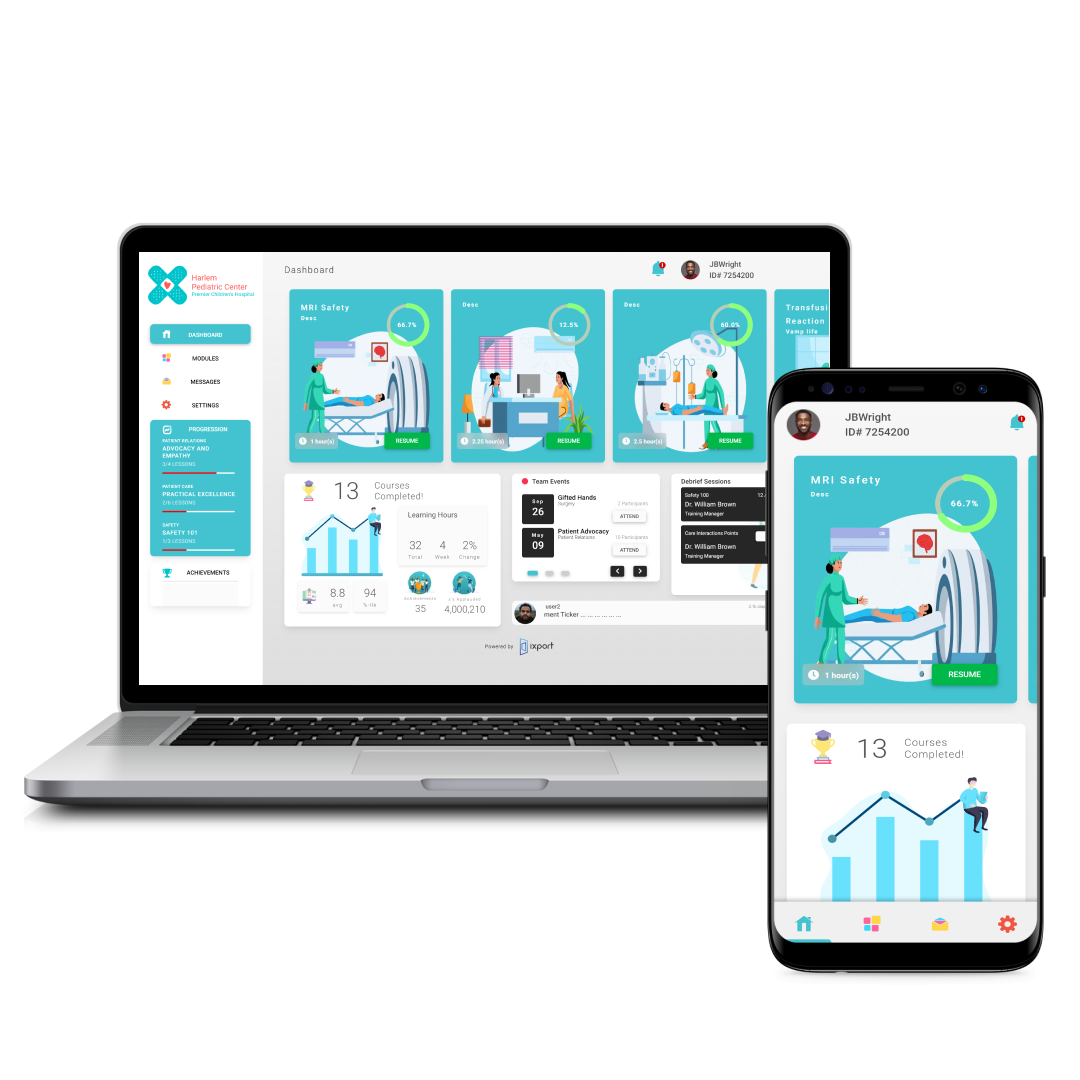
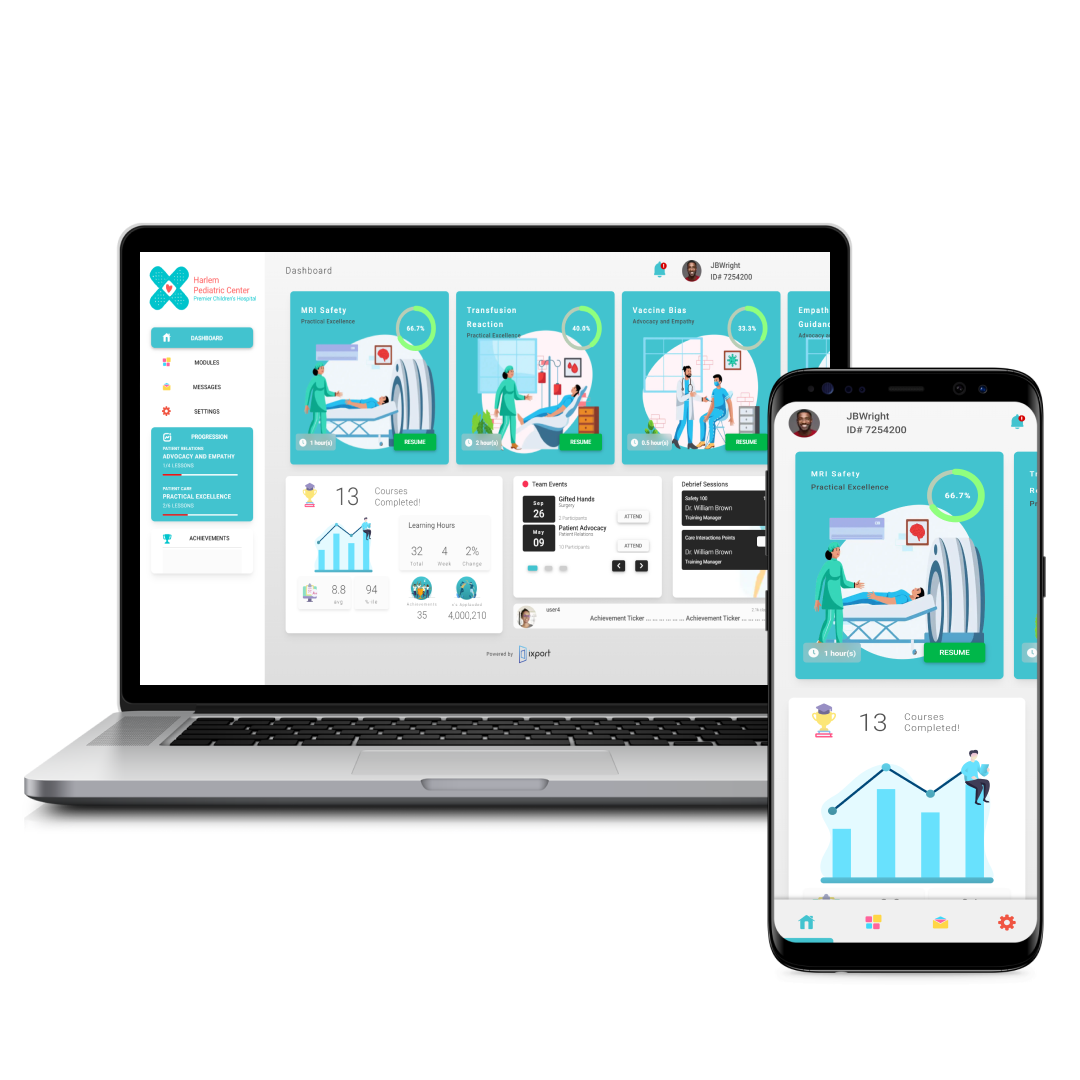
added harlem med data and enabled

Changed region(s): [[0.275, 0.2444, 0.9778, 0.8861], [0.1222, 0.2444, 0.2444, 0.55]]

diff --git a/data/index.js b/data/index.js
@@ -112,6 +112,37 @@ export const projects = [
     ],
   */
 
+  // Med Sim Proof of Concept
+  {
+    title: "Harlem Pediatrics VR Training App",
+    desc: "A WebXR Demo webapp for medical simulation training demo...",
+    id: "medsim",
+    role: "Full Stack XR Developer",
+    type: "hybrid",
+    tags: ["html", "bootstrap", "javascript"],
+    repo: {
+      active: false,
+      link: "",
+    },
+    deployed: {
+      active: true,
+      link: "https://web-xr-med-sim.vercel.app/dashboard",
+    },
+    imgs: ["/images/projectImages/portfolio_HarlemPeds_1.png"],
+    bullets: ["...", "...", "...", "..."],
+    tech: [
+      "React",
+      "Next.js",
+      "Vercel",
+      "Figma",
+      "SEO",
+      "MDBootstrap",
+      "Babylon.js",
+      "Unity",
+      "Blender",
+    ],
+  },
+
   // IXPORT TECHNOLOGIES
   {
     title: "Ixport Technologies",
@@ -151,37 +182,6 @@ export const projects = [
       "SEO",
       "MDBootstrap",
       "Ready Player Me",
-    ],
-  },
-
-  // Med Sim Proof of Concept
-  {
-    title: "Harlem Pediatrics VR Training App",
-    desc: "A WebXR Demo webapp for medical simulation training demo...",
-    id: "medsim",
-    role: "Full Stack XR Developer",
-    type: "hybrid",
-    tags: ["html", "bootstrap", "javascript"],
-    repo: {
-      active: false,
-      link: "",
-    },
-    deployed: {
-      active: false,
-      link: "https://web-xr-med-sim.vercel.app/dashboard",
-    },
-    imgs: ["/images/webP_images/PhotoPlaceHolder.webp"],
-    bullets: ["...", "...", "...", "..."],
-    tech: [
-      "React",
-      "Next.js",
-      "Vercel",
-      "Figma",
-      "SEO",
-      "MDBootstrap",
-      "Babylon.js",
-      "Unity",
-      "Blender",
     ],
   },
 
